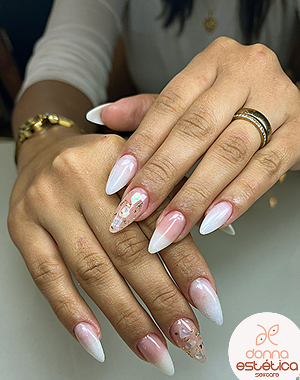
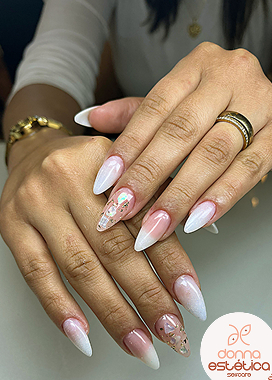
teste no webpages
funcionou no live server

diff --git a/todos os arquivos do site/style.css b/todos os arquivos do site/style.css
@@ -179,18 +179,16 @@ header{
 
 
 
-.conteiner-instagram{
-    /* REMOVA: margin-top: 10vh; - JÁ ALINHADO PELO JUSTIFY-CONTENT */
+.conteiner-instagram {
     background-color: #E6E6E6;
     width: 80%;
-    /* Altura definida por proporção (padding-bottom), para não depender do height fixo/relativo */
-    /* Se a imagem for quadrada, use 80%. Se for mais alta, use um valor maior (ex: 100%) */
-    padding-bottom: 80%; /* Altura é 80% da largura. Ajuste conforme a proporção das suas imagens */
-    position: relative; /* Essencial para o padding-bottom funcionar como altura */
+    height: 60dvh; /* altura fixa proporcional à tela */
+    position: relative;
     border-radius: 10px;
-    margin: 10dvh 0px 2dvh 0px; /* Margem vertical para centralizar melhor */
-    max-height: 450px; /* Define uma altura máxima se as imagens ficarem muito grandes em telas maiores */
+    margin: 10dvh 0px 2dvh 0px;
+    overflow: hidden; /* garante que nada saia do contêiner */
 }
+
 
 .faixa {
   width: 100%;
@@ -287,9 +285,11 @@ header{
 .slide img {
     width: 100%;
     height: 100%;
-    object-fit: cover; /* Mantém preenchendo, mas a proporção do contêiner está mais estável agora */
+    object-fit: contain; /* mantém a imagem inteira, com fundo branco */
+    background-color: white; /* cor do fundo visível */
     border-radius: 10px;
 }
+
 
 /* Bolinhas indicadoras */
 .dots {
